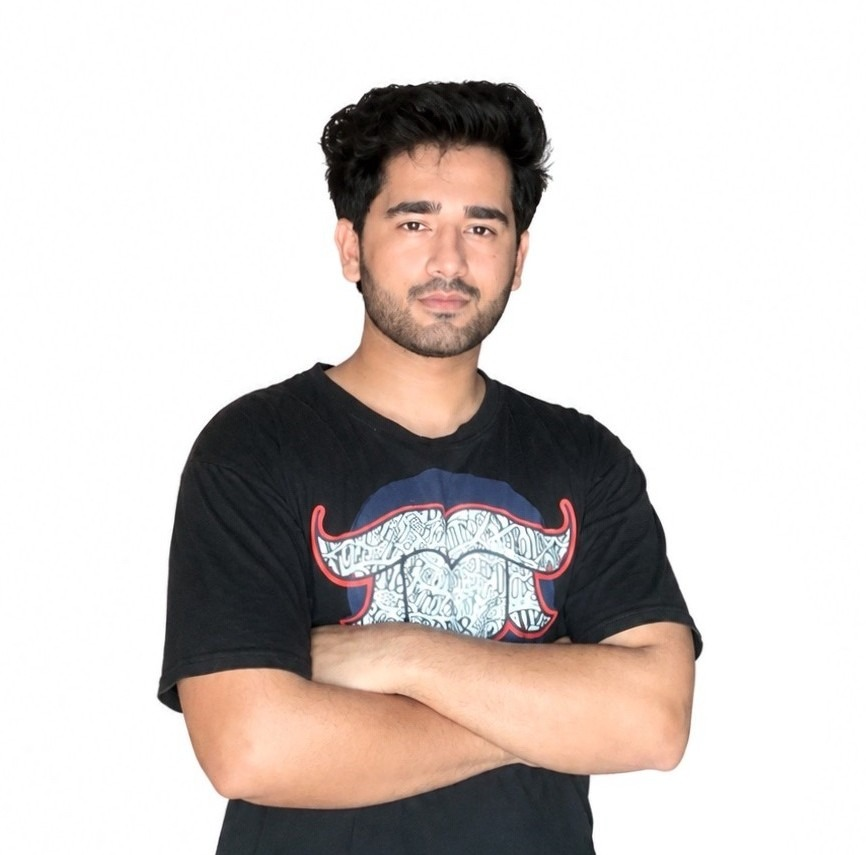
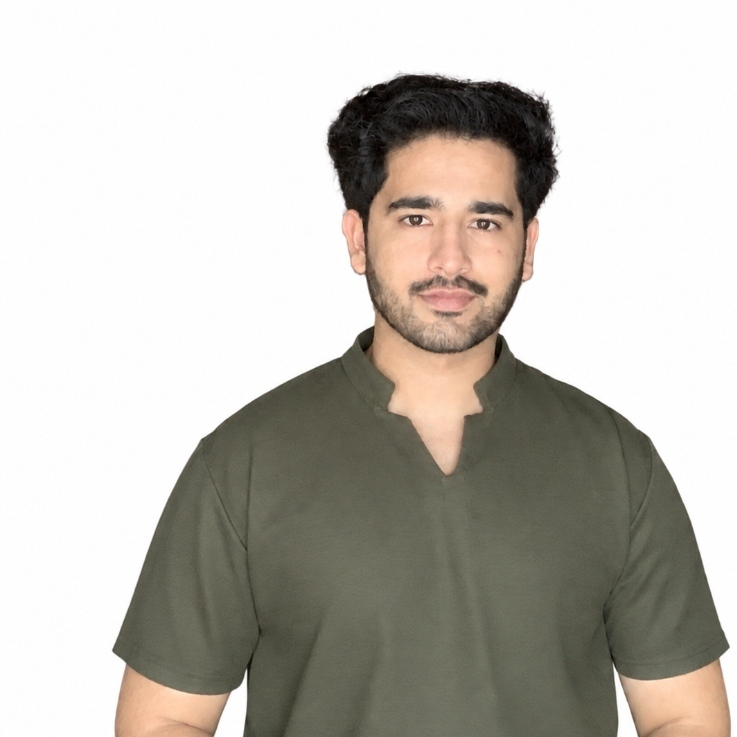
fix(hero): replace hero photo with new olive shirt photo framed for mobile view

diff --git a/index.html b/index.html
@@ -240,7 +240,7 @@
         </div>
       </div>
       <div class="hero-photo">
-        <img src="assets/images/about-photo.jpg" alt="Yahya - Financial Analyst" id="heroProfileImg" fetchpriority="high">
+        <img src="assets/images/about-photo.jpg?v=3" alt="Yahya - Financial Analyst" id="heroProfileImg" fetchpriority="high">
       </div>
     </div>
   </div>
